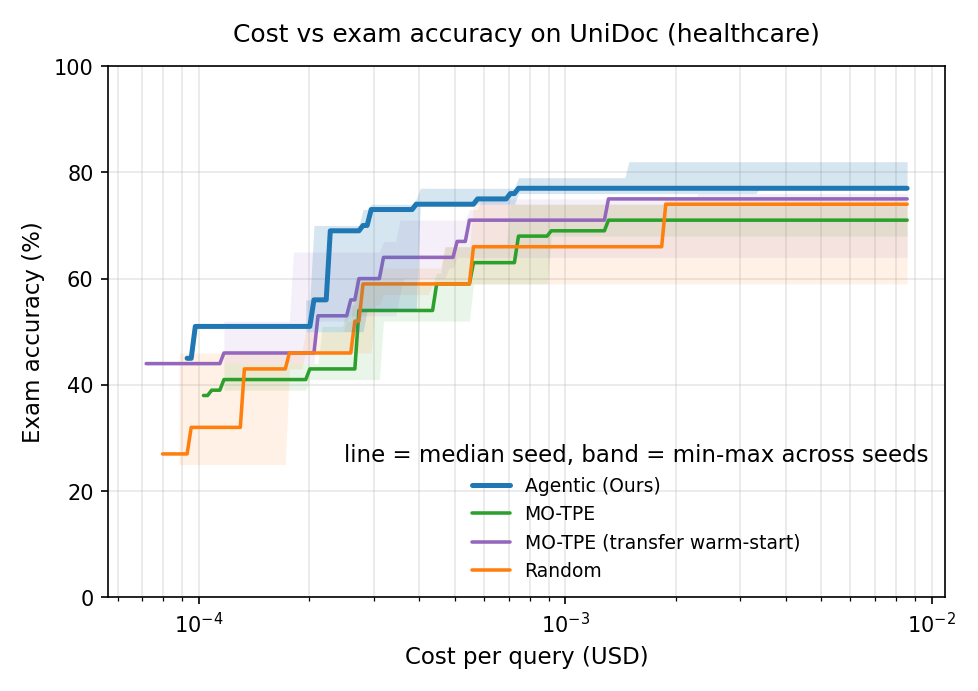
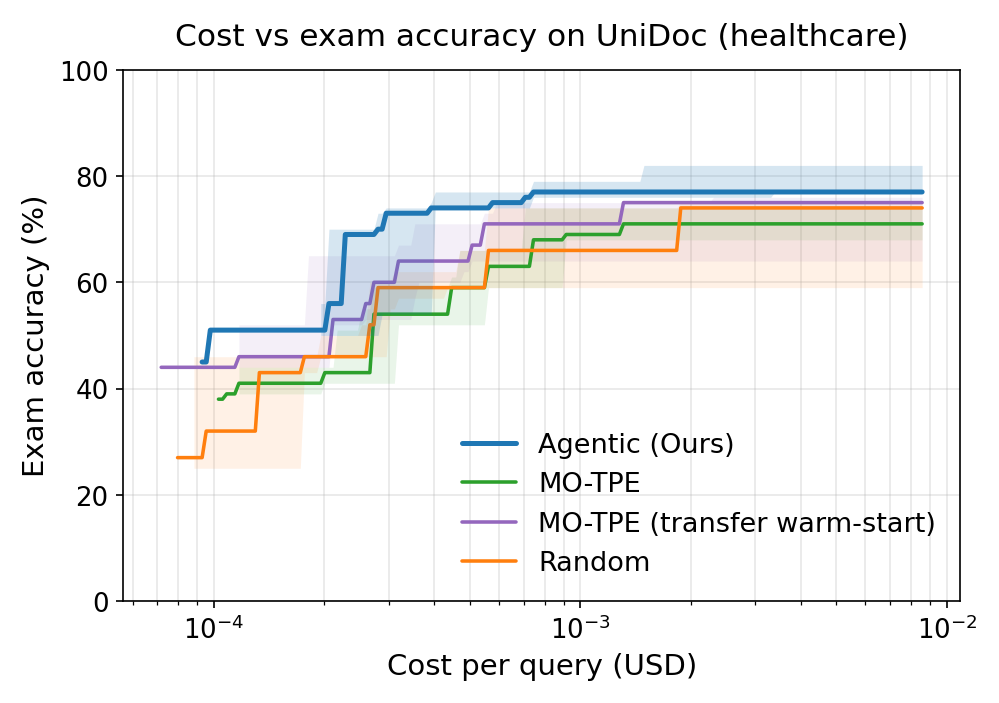
Update pareto figure

diff --git a/agentic_autorag_bench/plots.py b/agentic_autorag_bench/plots.py
@@ -1495,10 +1495,14 @@ def make_pareto_attainment_figure(output_root: Path, out_path: Path, *, domain: 
     plt.close(fig)
 
 
-def _draw_median_attainment_panel(ax, method_seed_points, grid, *, domain: str) -> None:
+def _draw_median_attainment_panel(
+    ax, method_seed_points, grid, *, domain: str,
+    legend_title: str | None = "line = median seed, band = min-max across seeds",
+) -> None:
     """Median-seed cost->accuracy attainment (line + min-max band) onto ``ax``.
     Shared by the standalone median figure and the combined landscape figure so
-    the two never drift."""
+    the two never drift. ``legend_title`` can be set to ``None`` to drop the
+    line/band explainer when the figure caption already carries it."""
     _plot_attainment(ax, method_seed_points, grid, central="median")
     ax.set_xscale("log")
     ax.set_xlabel("Cost per query (USD)")
@@ -1507,8 +1511,7 @@ def _draw_median_attainment_panel(ax, method_seed_points, grid, *, domain: str) 
     ax.grid(alpha=0.3, which="both")
     title_domain = f" ({domain})" if domain else ""
     ax.set_title(f"Cost vs exam accuracy on UniDoc{title_domain}")
-    ax.legend(loc="lower right", frameon=False,
-              title="line = median seed, band = min-max across seeds")
+    ax.legend(loc="lower right", frameon=False, title=legend_title)
 
 
 def make_pareto_attainment_median_figure(output_root: Path, out_path: Path, *, domain: str = "") -> None:
@@ -1527,12 +1530,24 @@ def make_pareto_attainment_median_figure(output_root: Path, out_path: Path, *, d
 
     apply_paper_style()
     plt = _import_matplotlib()
-    fig, ax = plt.subplots(figsize=(7.2, 4.6))
-    _draw_median_attainment_panel(ax, method_seed_points, grid, domain=domain)
+    # Keep the spacious 7.2in canvas (uncramped) but bump fonts modestly so they
+    # stay legible after the figure is downscaled into a single \columnwidth slot.
+    # The legend title is dropped (legend_title=None) since the caption carries it.
+    font_overrides = {
+        "axes.titlesize": 15,
+        "axes.labelsize": 14,
+        "xtick.labelsize": 12.5,
+        "ytick.labelsize": 12.5,
+        "legend.fontsize": 13,
+    }
+    with plt.rc_context(font_overrides):
+        fig, ax = plt.subplots(figsize=(7.2, 4.6))
+        _draw_median_attainment_panel(ax, method_seed_points, grid, domain=domain,
+                                      legend_title=None)
 
-    out_path.parent.mkdir(parents=True, exist_ok=True)
-    fig.savefig(out_path, dpi=150, bbox_inches="tight")
-    plt.close(fig)
+        out_path.parent.mkdir(parents=True, exist_ok=True)
+        fig.savefig(out_path, dpi=150, bbox_inches="tight")
+        plt.close(fig)
 
 
 def _pooled_frontier(seed_points: list[list[_TrialPoint]]) -> list[_TrialPoint]:
